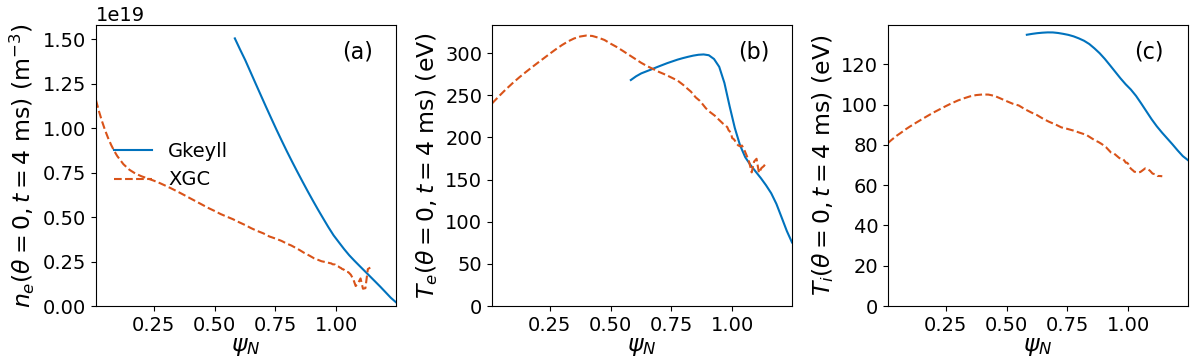
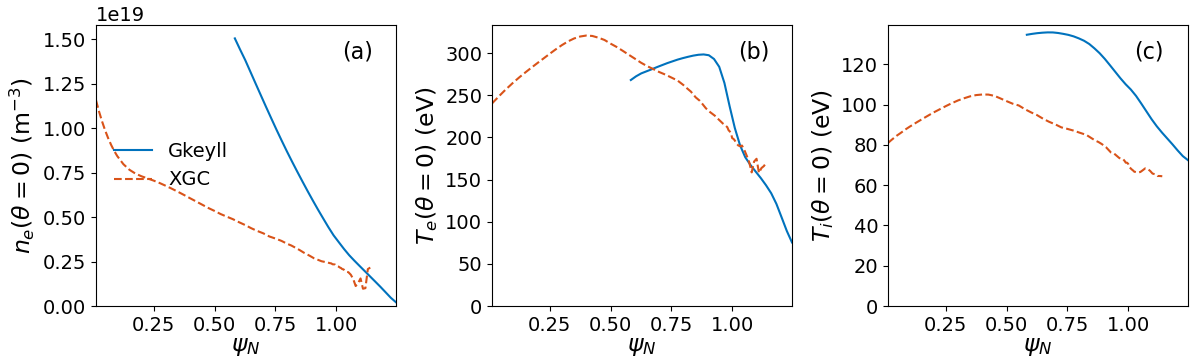
Remove time from y label of final moment comp figure.

diff --git a/comp/compare_gkeyll_xgc_ltx_2x.py b/comp/compare_gkeyll_xgc_ltx_2x.py
@@ -24,11 +24,11 @@ import sys #[ For error exit.
 sys.path.insert(0, '../util/')
 import ltx_common_util as lcu
 
-plot_grids_RZ_li863mg           = True  #[ Grids on the R-Z plane of 863 mg simulation.
-plot_den_omp_init_li863mg       = True  #[ Initial n at outboard midplane (OMP) of 863 mg simulation.
-plot_den_temp_omp_init_li863mg  = True  #[ Initial n and T profiles at OMP.
+plot_grids_RZ_li863mg           = False  #[ Grids on the R-Z plane of 863 mg simulation.
+plot_den_omp_init_li863mg       = False  #[ Initial n at outboard midplane (OMP) of 863 mg simulation.
+plot_den_temp_omp_init_li863mg  = False  #[ Initial n and T profiles at OMP.
 plot_den_temp_omp_final_li863mg = True  #[ Final n and T profiles at OMP.
-plot_moms_RZ_final_li863mg      = True  #[ Final n, upar, Tpar and Tperp profiles on R-Z plane.
+plot_moms_RZ_final_li863mg      = False  #[ Final n, upar, Tpar and Tperp profiles on R-Z plane.
 
 gke_data_dir = '../gkeyll/data/' #[ Location of reduced Gkeyll data.
 xgc_data_dir = '../xgc/data/' #[ Location of reduced XGC data.
@@ -37,9 +37,9 @@ out_data_dir  = './data/'
 out_fig_dir   = './figures/'
 output_prefix = 'ltx_sims_'
 
-output_figure_file = False     #[ Output a figure file?.
+output_figure_file = True     #[ Output a figure file?.
 figure_file_format = '.png'    #[ Can be .png, .pdf, .ps, .eps, .svg.
-save_data          = False    #[ Indicate whether to save data in plot to HDF5 file.
+save_data          = True    #[ Indicate whether to save data in plot to HDF5 file.
 
 #[ Vacuum vessel wall coordinates.
 ltx_vv_file = '../experiment/LTXvessel.csv'  
@@ -331,9 +331,9 @@ if plot_den_temp_omp_final_li863mg:
   #[ Plot final density and temperature at the OMP.
   fig_name = lcu.li863_prefix+'final_den_temp_omp'
   y_labels = [
-    r'$n_e(\theta=0,t=4~\mathrm{ms})$ (m$^{-3}$)',
-    r'$T_e(\theta=0,t=4~\mathrm{ms})$ (eV)',
-    r'$T_i(\theta=0,t=4~\mathrm{ms})$ (eV)',
+    r'$n_e(\theta=0)$ (m$^{-3}$)',
+    r'$T_e(\theta=0)$ (eV)',
+    r'$T_i(\theta=0)$ (eV)',
   ]
 
   gke_data_file = gke_data_dir+'ltx_gkeyll_li863mg_final_den_temp_z1mid.h5'

diff --git a/gkeyll/input_files/li863mg_103955_04-neut/gk_ltx_iwl_2x2v_p1.c b/gkeyll/input_files/li863mg_103955_04-neut/gk_ltx_iwl_2x2v_p1.c
@@ -364,6 +364,15 @@ void temp_init_elc(double t, const double * GKYL_RESTRICT xn, double* GKYL_RESTR
   fout[0] = 0.8*Te0*(1.1 - tanh((9.0/Lx)*(psi_max-0.646767778*Lx-x)));
 }
 
+static double
+sign(double a)
+{
+  if (a != 0.0)
+    return a/fabs(a);
+  else
+    return -1.0;
+}
+
 void density_init_neut(double t, const double* GKYL_RESTRICT xn, double* GKYL_RESTRICT fout, void* ctx)
 {
   double x = xn[0], z = xn[1];
@@ -373,16 +382,34 @@ void density_init_neut(double t, const double* GKYL_RESTRICT xn, double* GKYL_RE
   double Lx = app->Lx;
   double Lz = app->Lz;
   double x_LCFS = app->psi_LCFS;
+  double floor = pow(10,16.);
+  double psi_min = app->psi_min;
 
-  double n_x = 0.5*(1+tanh(-(x-0.9*x_LCFS)/(0.4*Lx)));
+//  double n_x = 0.5*(1+tanh(-(x-0.9*x_LCFS)/(0.1*Lx)));
+//  double n_x = (1.6/1.855)*0.5*(1+tanh((x-0.9*x_LCFS)/(0.1*Lx)))+0.08;
+  double n_x;
+  if (x <= x_LCFS)
+    n_x = exp(-pow(x-x_LCFS,2)/(2*pow(0.25*Lx,2)));
+  else
+    n_x = exp(-pow(x-x_LCFS,2)/(2*pow(0.1*Lx,2)));
+
+//  n_x *= 0.5*(1+tanh(-(x-psi_min)/(.50*Lx)));
 
   double n_z = 0.0;
-  if (z <= 0.0)
-    n_z = (pow(1.0/cosh(z+Lz/2.),2.0) + 1.e-6);
-  else
-    n_z = (pow(1.0/cosh(z-Lz/2.),2.0) + 1.e-6);
+//  if (z <= 0.0)
+//    n_z = (pow(1.0/cosh((z+Lz/2.)/(.250)),2.0) + 1.e-6);
+//  else
+//    n_z = (pow(1.0/cosh((z-Lz/2.)/(.250)),2.0) + 1.e-6);
+    
+//  if (x <= x_LCFS)
+//    n_z = (pow(1.0/cosh((z-sign(z)*Lz/2.)/(.750)),2.0) + 1.e-6);
+//  else
+//    n_z = (pow(1.0/cosh((z-sign(z)*Lz/2.)/(.250)),2.0) + 1.e-6);
 
-  fout[0] = 10.0*n0_neut*n_x*n_z;
+  n_z = (pow(1.0/cosh((z-sign(z)*Lz/2.)/(.05*Lz)),2.0) + 1.e-6);
+
+  fout[0] = fmax(10.0*n0_neut*n_x*n_z, floor);
+//  fout[0] = 10.0*n0_neut*n_x*n_z;
 }
 
 void temp_init_neut(double t, const double * GKYL_RESTRICT xn, double* GKYL_RESTRICT fout, void *ctx)
